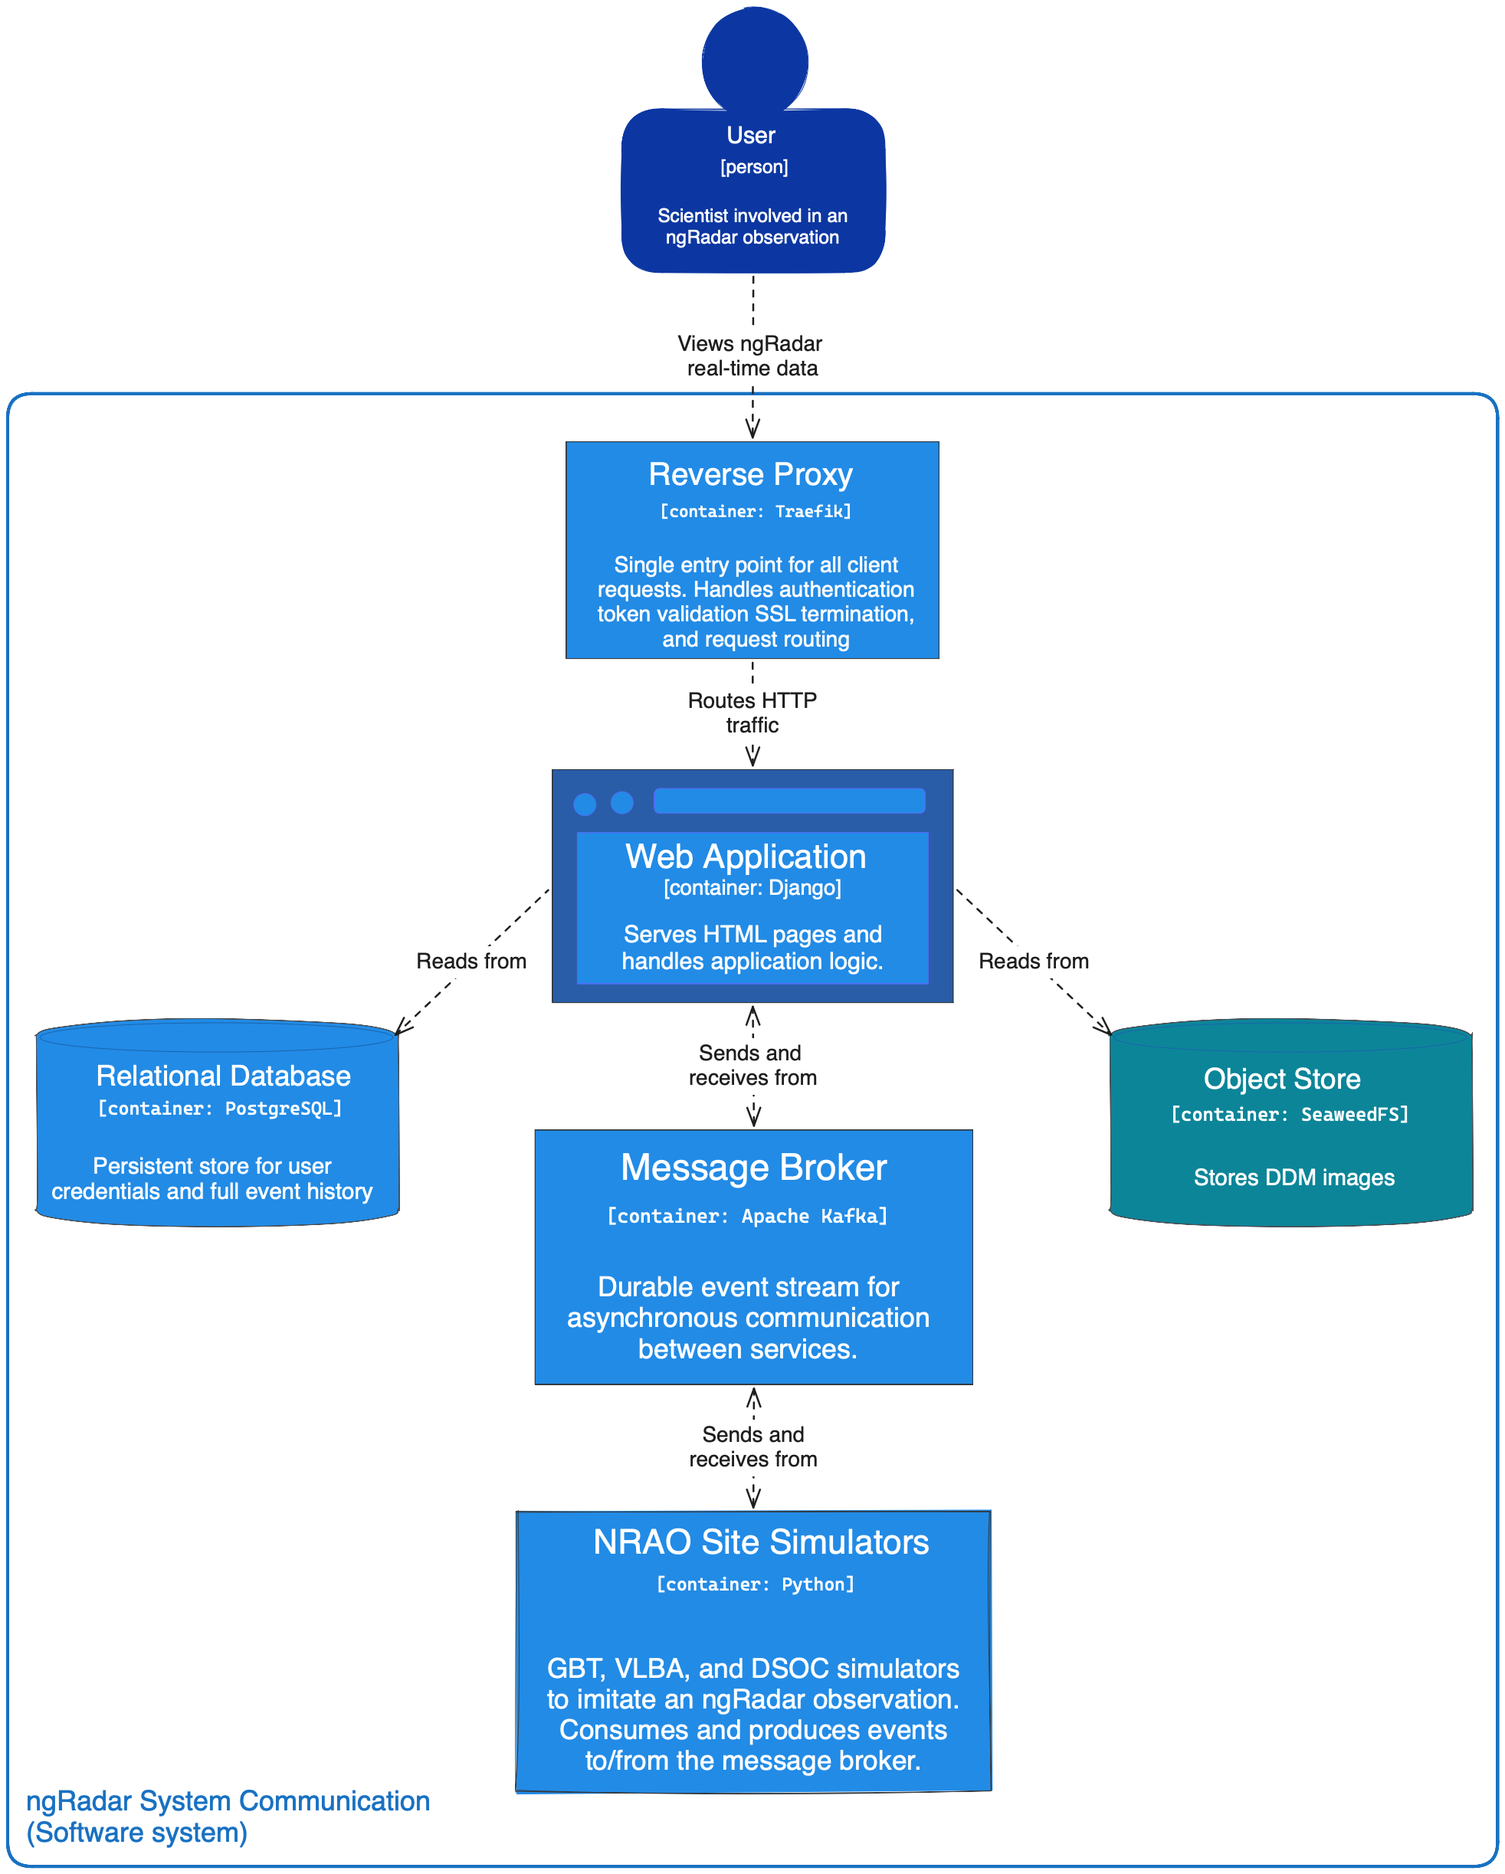
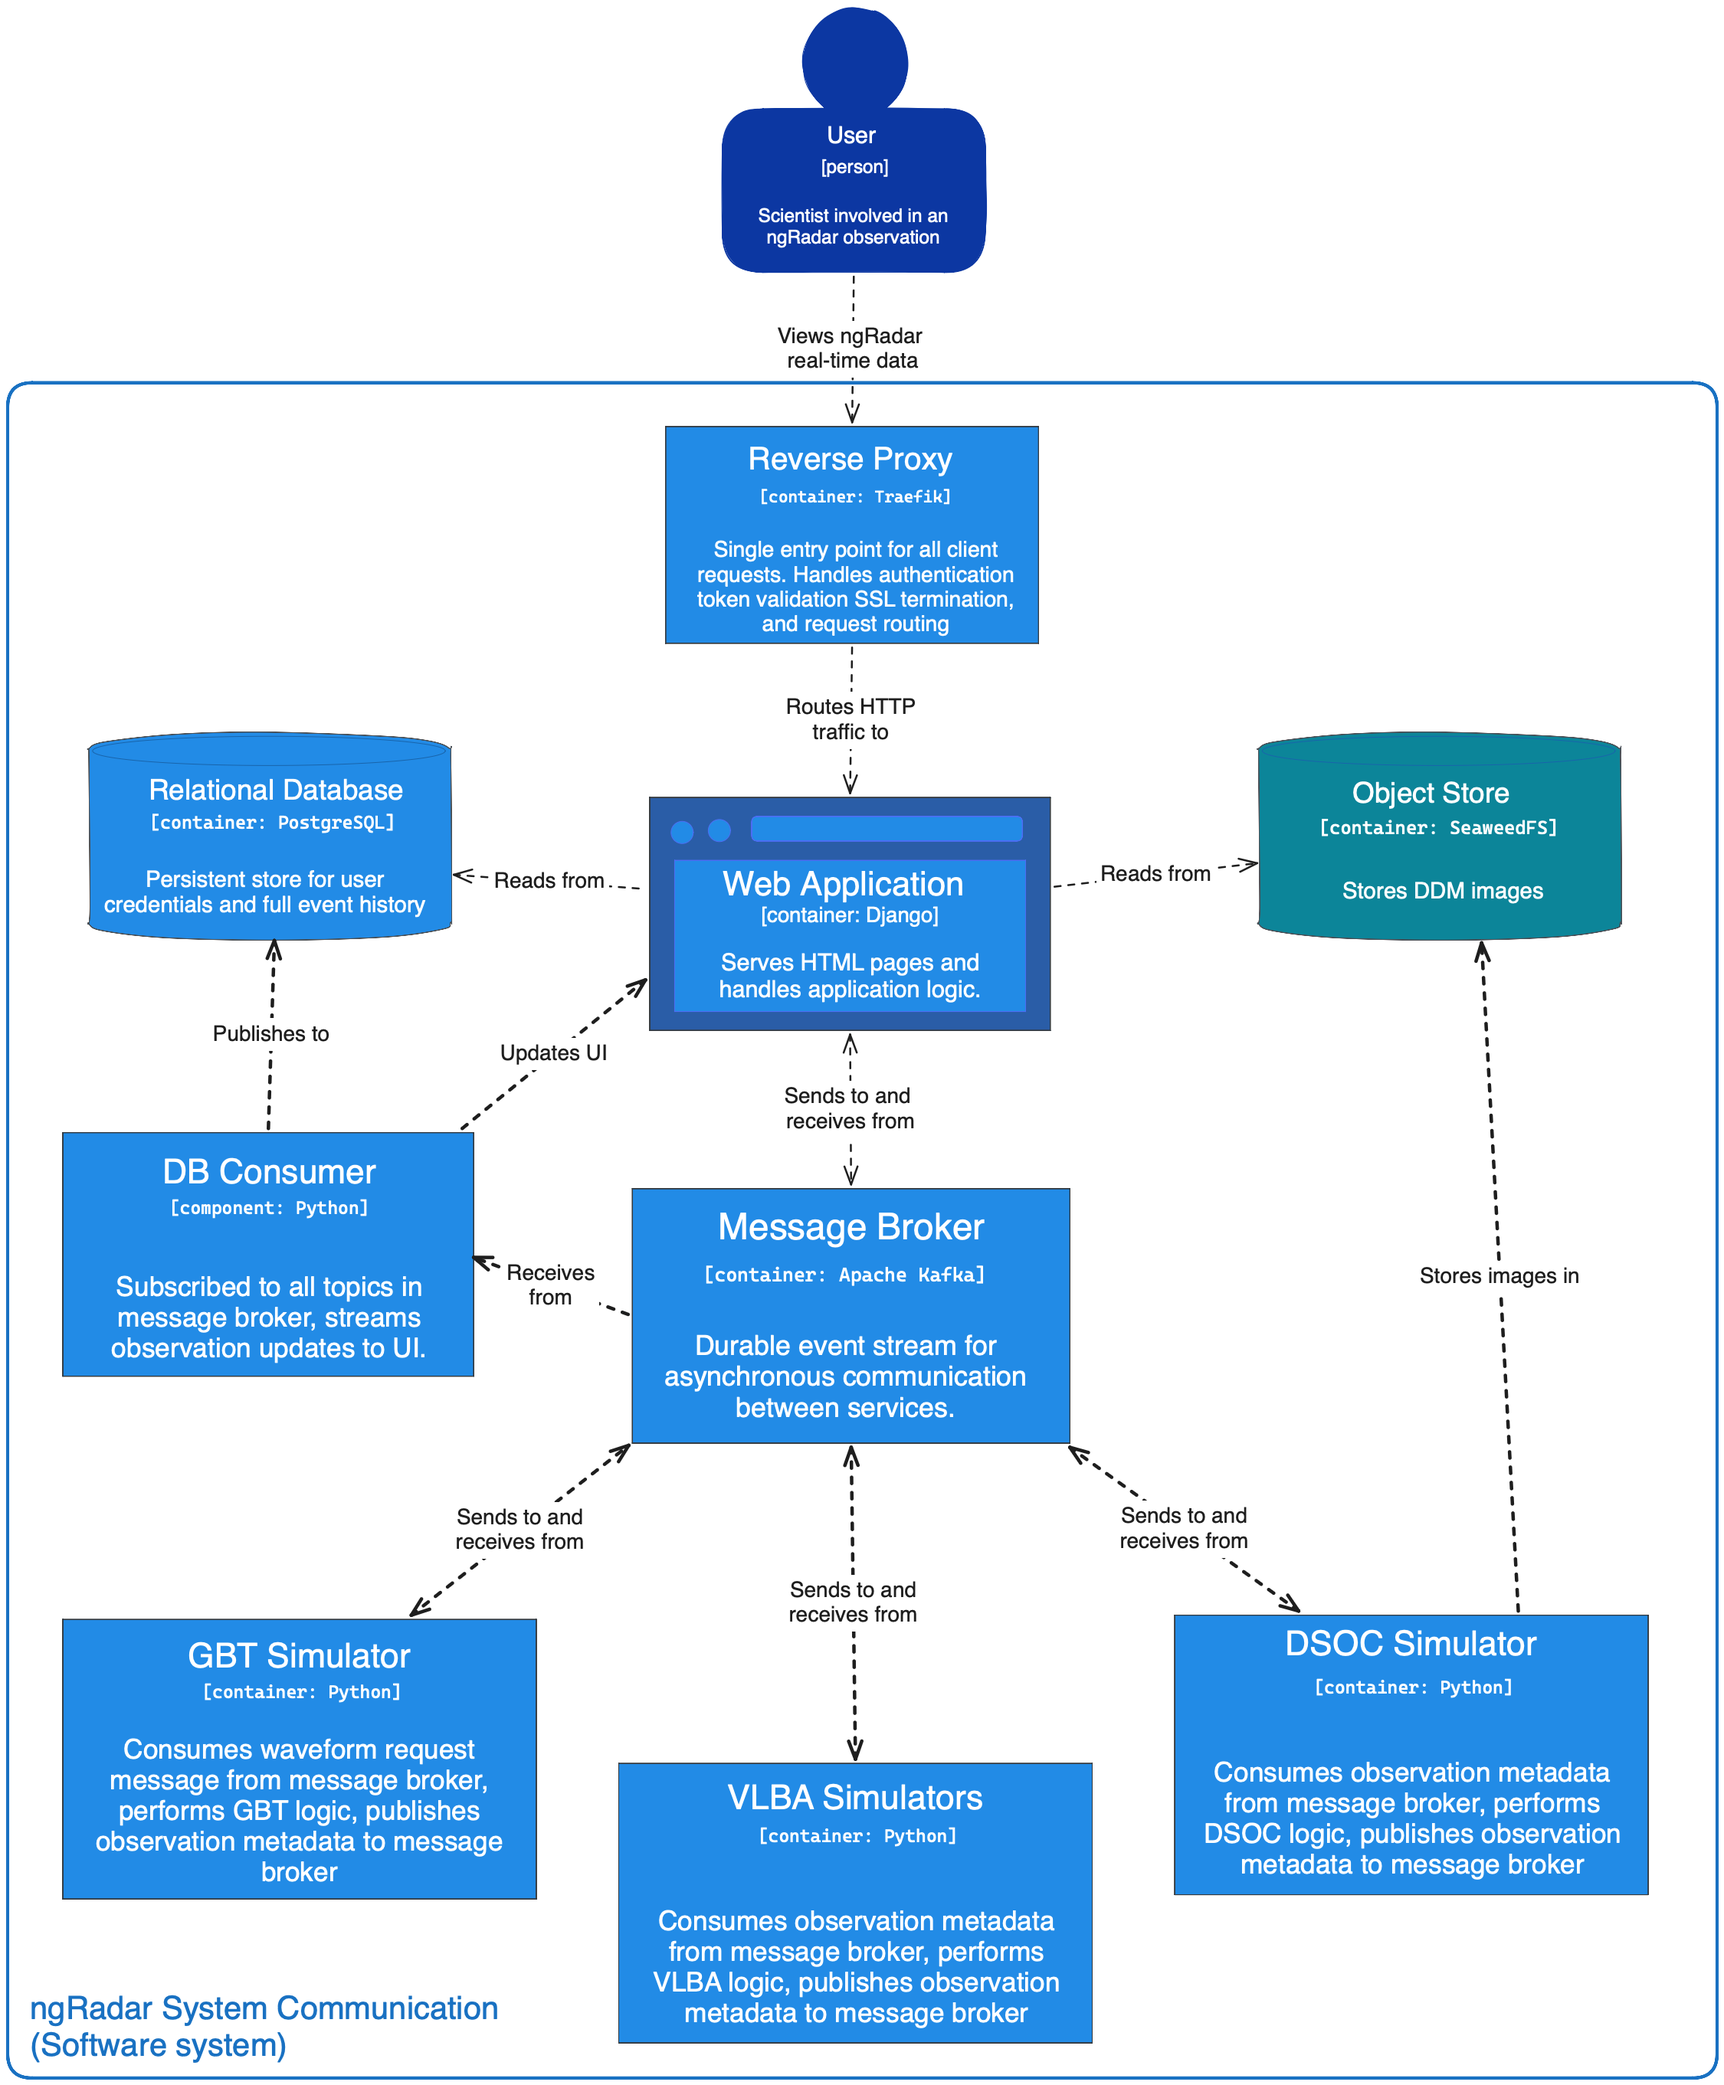
abstract + intro changes (plus other team member changes)

diff --git a/main.tex b/main.tex
@@ -21,27 +21,23 @@
 
 \section*{Abstract}
 
-This software documents a real-time data transport architecture developed by the NRAO, and demonstrates a possible use for the future ngRadar system; while ngRadar was selected as a test case, the ultimate goal is to have a real-time data transport system that can be implemented into any NRAO system. The purpose of this prototype is to explore feasible design options, which will provide a proof-of-concept of what works and what is possible when this system gets implemented into production. Requirements for the design options that were adhered to include public-network data movement, \textbf{[get requirements from conops/other resources, list some here]}. The final software architecture is the result of experimenting with the best options for observation data transport efficiency, web application efficiency, message reliability, retention, storage, reproducability across sites, and more. 
-
-\textbf{[Possibly move pieces of this paragraph to Intro?]}entirely event-driven while each event is also saved in a central database, with every event visible to users on a public website. The prototype has been tested with simulated observation data, and has demonstrated the ability to work remotely across geographically dispersed sites. 
-Interferometers used in Radio Astronomy require real time communication between instruments, and ngRadar would strongly benefit from system communication between observation planning, telescope control, and data transport software. Currently, there is no direct connection between these software components and NRAO personel must communicate directly to plan observations across sites.
+This software documents a real-time data transport architecture developed by the NRAO, and demonstrates a possible use for the future ngRadar system; while ngRadar was selected as a test case, the ultimate goal is to have a real-time data transport system that can be implemented into any NRAO system. The broader scope of this prototype should be kept in mind, even while this memo uses the context of the ngRadar system. The purpose of this prototype is to explore feasible design options, which will provide a proof-of-concept of what works and what is possible when this system gets implemented into production. Some requirements for the design options that were adhered to include public-network movement of real-time metadata and data products, closed-loop feedback, remote observing and monitoring, integration of all observing sites involved, and system health maintenance interface(s). The final software architecture is the result of experimenting with the best options for observation data transport efficiency, web application efficiency, message reliability, retention, and storage, reproducability across sites, and more. 
 
 %=====================================================================================
 
 \section{Introduction} \label{Introduction}
 
-\textbf{Note from Nicole: I want it to be clear that yes, our prototype was devleoped in the context of ngRadar, so we will stick with that terminology, BUT the goal of this prototyping cohort was to investigate tools that could be used for several projects at NRAO.}
-The ngRadar system will utilize the Green Bank Telescope as a high powered transmitter, capable of transmitting a 13.7 GHz frequency at 500kW, and be able to image objects 10 times farther than the lunar distance. The Very Long Baseline Array (VLBA) will be used to receive those signals, before being sent to the Domenici Science Operations Center (DSOC) for data processing. During test observations with the low powered transmitter, scientific staff had to communicate over the phone with telescope operators across the GBT and VLBA sites to coordinate planned observations, including observation targets and times.
+The ngRadar system will utilize the Green Bank Telescope (GBT) as a high-powered transmitter, capable of signaling objects 10 times farther than the lunar distance. The Very Long Baseline Array (VLBA) will be used to receive the signal data, before being sent to the Domenici Science Operations Center (DSOC) for data processing. The Real-Time System Communication Prototype was developed to demonstrate system communications between remote NRAO locations (in this use case, between the GBT, VLBA, and DSOC). 
 
-  The Real-Time System Communication Prototype was developed to demonstrate system communications between remote NRAO locations. This paper documents an event-driven, web-based application for remote viewing of an active observation across geographically dispersed sites. Although this software could be implemented on many NRAO observatories, the ngRadar system was chosen for this team to demonstrate the prototype's proof of concept.
+All geographically dispersed NRAO systems would strongly benefit from one standardized system of real-time communication. Methods of sharing ephemerides, updating pointing information, and accessing quick-look products are currently not standardized; this information gets scattered across many platforms during an observation. This prototype aims to centralize all relevant real-time observation information and to provide it to users as efficiently as possible.
 
-This memo details the software system architecture (Section \ref{System Architecture}), design decisions (Section \ref{Design Decisions}), software components and technologies chosen (Section \ref{Software Stack}), and other dependencies required by the System Communication Prototype (Section \ref{Dependencies}). \textbf{Needs Laura's stamp of approval.}
+This paper documents an event-driven, web-based application for remote viewing of an active observation across geographically dispersed sites. The prototype has been tested with simulated observation data, and has demonstrated the ability to successfully meet all system requirements. This memo details the software system architecture (Section \ref{System Architecture}), design decisions (Section \ref{Design Decisions}), software components and technologies chosen (Section \ref{Software Stack}), and other dependencies required by the System Communication Prototype (Section \ref{Dependencies}).
 
 %=====================================================================================
 
 \section{System Architecture} \label{System Architecture}
 
-  Figure \ref{fig:context} depicts the ngRadar System Communication Prototype architecture at a high level. For simplicity, the tools related to monitoring and performance testing the prototype will be considered as a separate software system, as the system communication prototype does not rely on those services to function. These tools are outlined in detail in Section \ref{Software Stack}.
+  Figure \ref{fig:context} depicts the ngRadar System Communication Prototype architecture at a high level. Users interact with the system to view observation real-time data and request waveforms. For simplicity, the tools related to monitoring and performance testing the prototype will be considered as a separate software system, as the system communication prototype does not rely on those services to function. These tools inlcude GUIs for monitoring Docker containers and other servicse, performance testing and metric visualiation, and more, all of which is detailed in Section \ref{Software Stack}.
 
 \begin{figure}[h!] 
 \centering 
@@ -50,13 +46,25 @@ This memo details the software system architecture (Section \ref{System Architec
     \label{fig:context}
 \end{figure}
 
-Figure \ref{fig:container} shows the container-level view of the System Communication Prototype. 
+Figure \ref{fig:container} shows the container-level view of the System Communication Prototype. Users reach the public website, exposed by a reverse proxy, to view the latest updates regarding an observation and request different waveforms to be transmitted byt the GBT. Apache Kafka is the high-throughout mesage broker of the system, storing and transporting messages that trigger workflow items (Kafka functionality detailed in Section \ref{Software Stack}). The web application container is capable of sending to and receiving messages from the broker to trigger workflow events and receive updates. The database consumer container can also receive messages from the broker and is responsible for saving records to the databse and populating the history table on the UI. 
 
 \begin{figure}[h!] 
 \centering 
 \includegraphics[width=0.85\columnwidth]{figures/containerdiagram.png} 
     \caption{Container diagram} 
     \label{fig:container}
+\end{figure}
+
+The NRAO site simulators (GBT, VLBA, and DSOC) are all Python programs that perform site specific logic. They receive messages from the broker that trigger certain events, depending on the key of the message. 
+
+
+Figure \ref{fig:sequence} shows the sequence of events that occurs when a user submits a waveform on the UI. The 
+
+\begin{figure}[h!] 
+\centering 
+\includegraphics[width=0.85\columnwidth]{figures/sequencediagram.png} 
+    \caption{Sequence diagram depicting the triggered events throughout the system.} 
+    \label{fig:sequence}
 \end{figure}
 
 
@@ -110,9 +118,9 @@ Figure \ref{fig:container} shows the container-level view of the System Communic
 \subsection*{Backend Frameworks}
 
 Three backend frameworks were investigated for this prototype - Flask, FastAPI, and Django.
-  Flask is well-known for its simplicity and low usage of computing resources. It is also flexible and modular, allowing developers to modify the framework and integrate additional software components for added functionality. However, Flask only supports using synchronous communication between the server and framework, meaning processes can only run one-at-a-time. Flask also does not have built in authentication or adminstrative features.
+  Flask is well-known for its simplicity and low usage of computing resources. It is also flexible and modular, allowing developers to modify the framework and integrate additional software components for added functionality. However, Flask only supports using synchronous communication between the server and framework, meaning processes can only run one-at-a-time. Flask also does not have built-in authentication or adminstrative features.
 
-  FastAPI provides high-speed, asynchronous, non-blocking communication in a relatively lightweight framework. It is the newest framework out of the three that were investigated and includes features such as built-in authentication, Python code completion to speed up development, and automatic documentation for program APIs. It includes a modest number of built-in functionality, and developers can add libraries with additional features they need.
+  FastAPI provides high-speed, asynchronous, non-blocking communication in a relatively lightweight framework. It is the newest framework out of the three that were investigated and includes features such as built-in authentication, Python code completion to speed up development, and automatic documentation for program APIs. It includes a modest amount of built-in functionality, and developers can add libraries with additional features they need.
 
   Django is a framework with a large amount of built-in functionality including an adminstrative dashboard, user authentication, HTML form processing, an object-relational mapper for database interaction, and a model-template-view architecture to seperate program logic from what the user can see. It is capable of running large web applications with many users. By default, Django runs with synchronous communication, but libraries that add asynchronous communication are avaliable.
 
